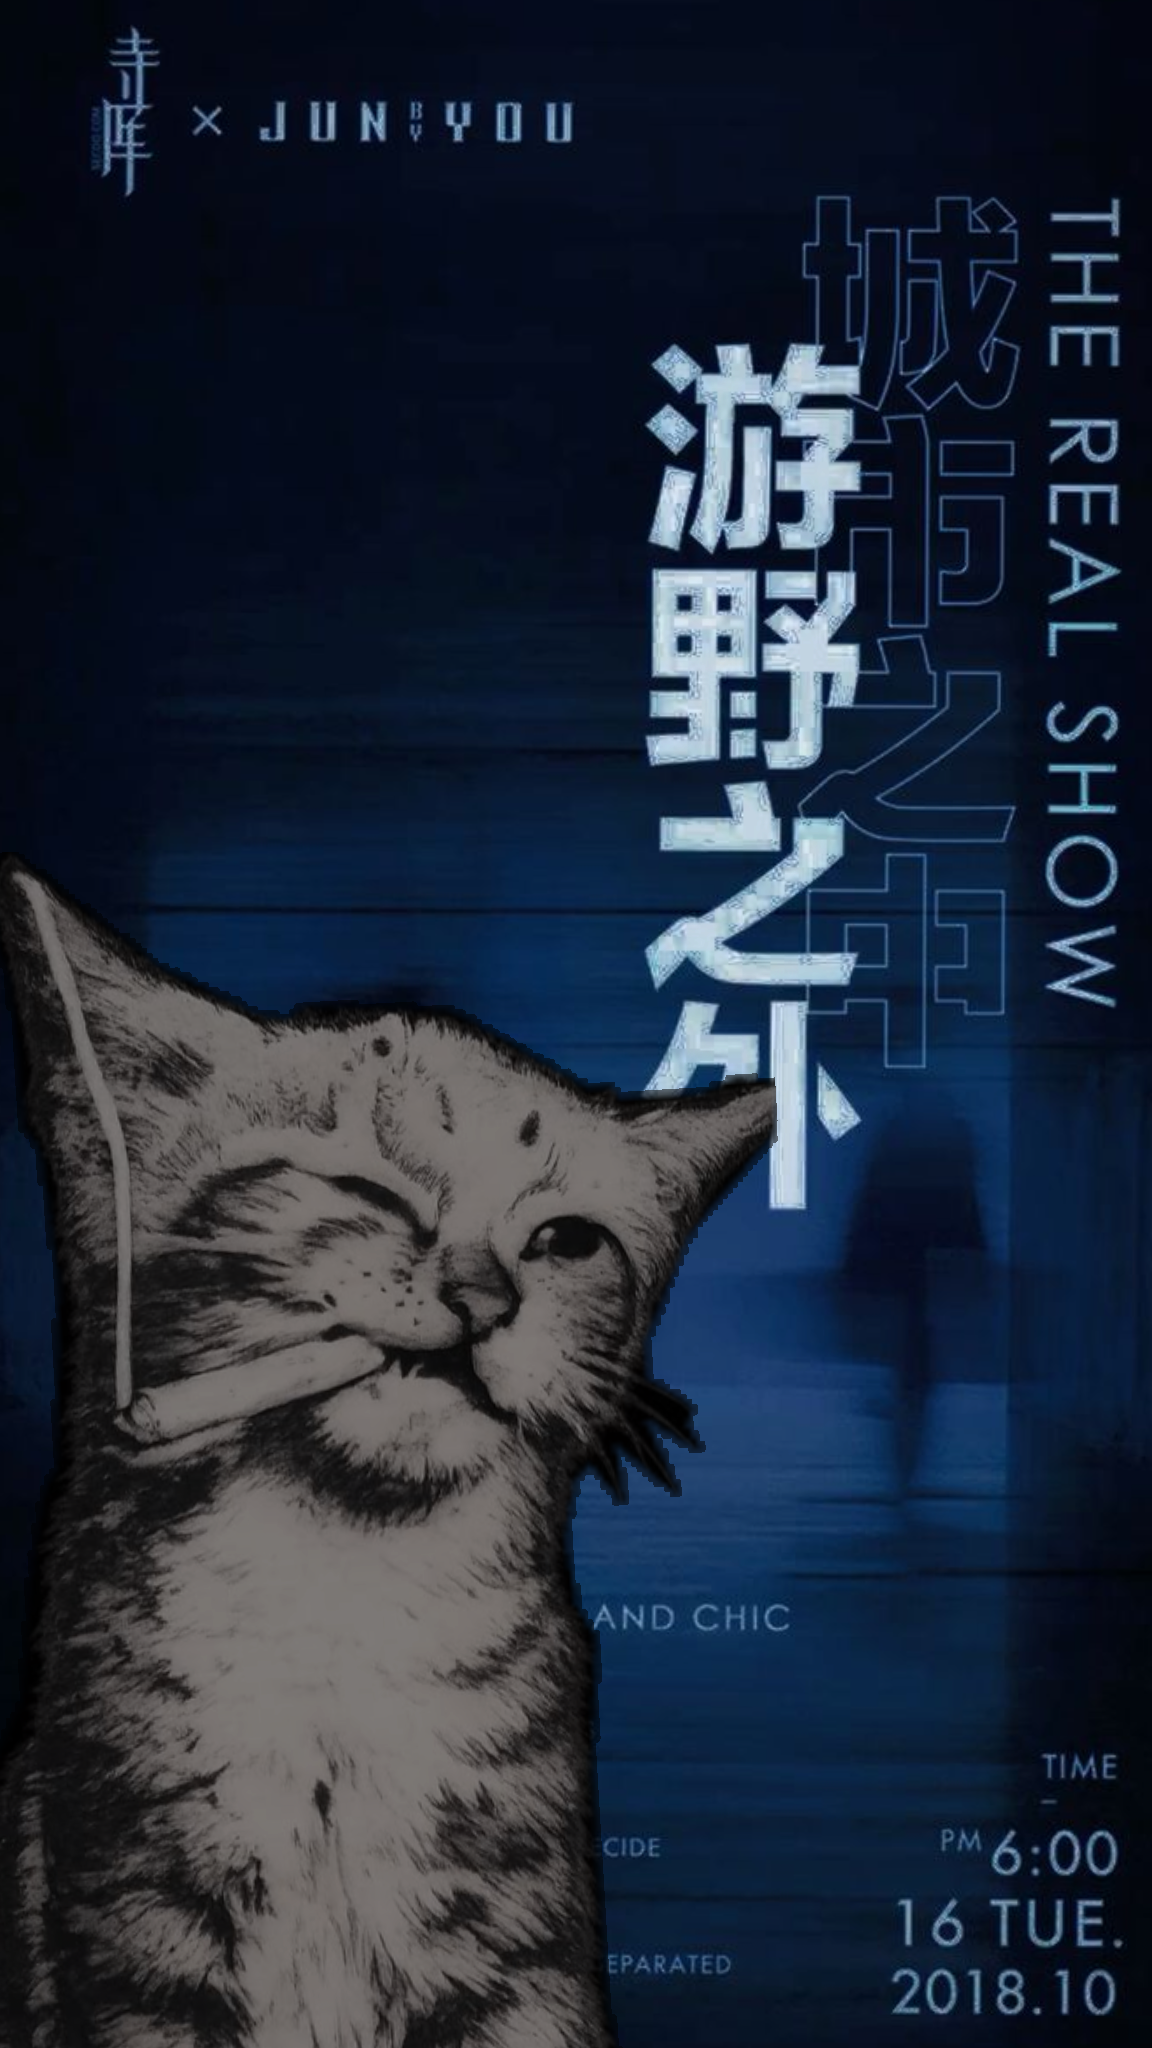
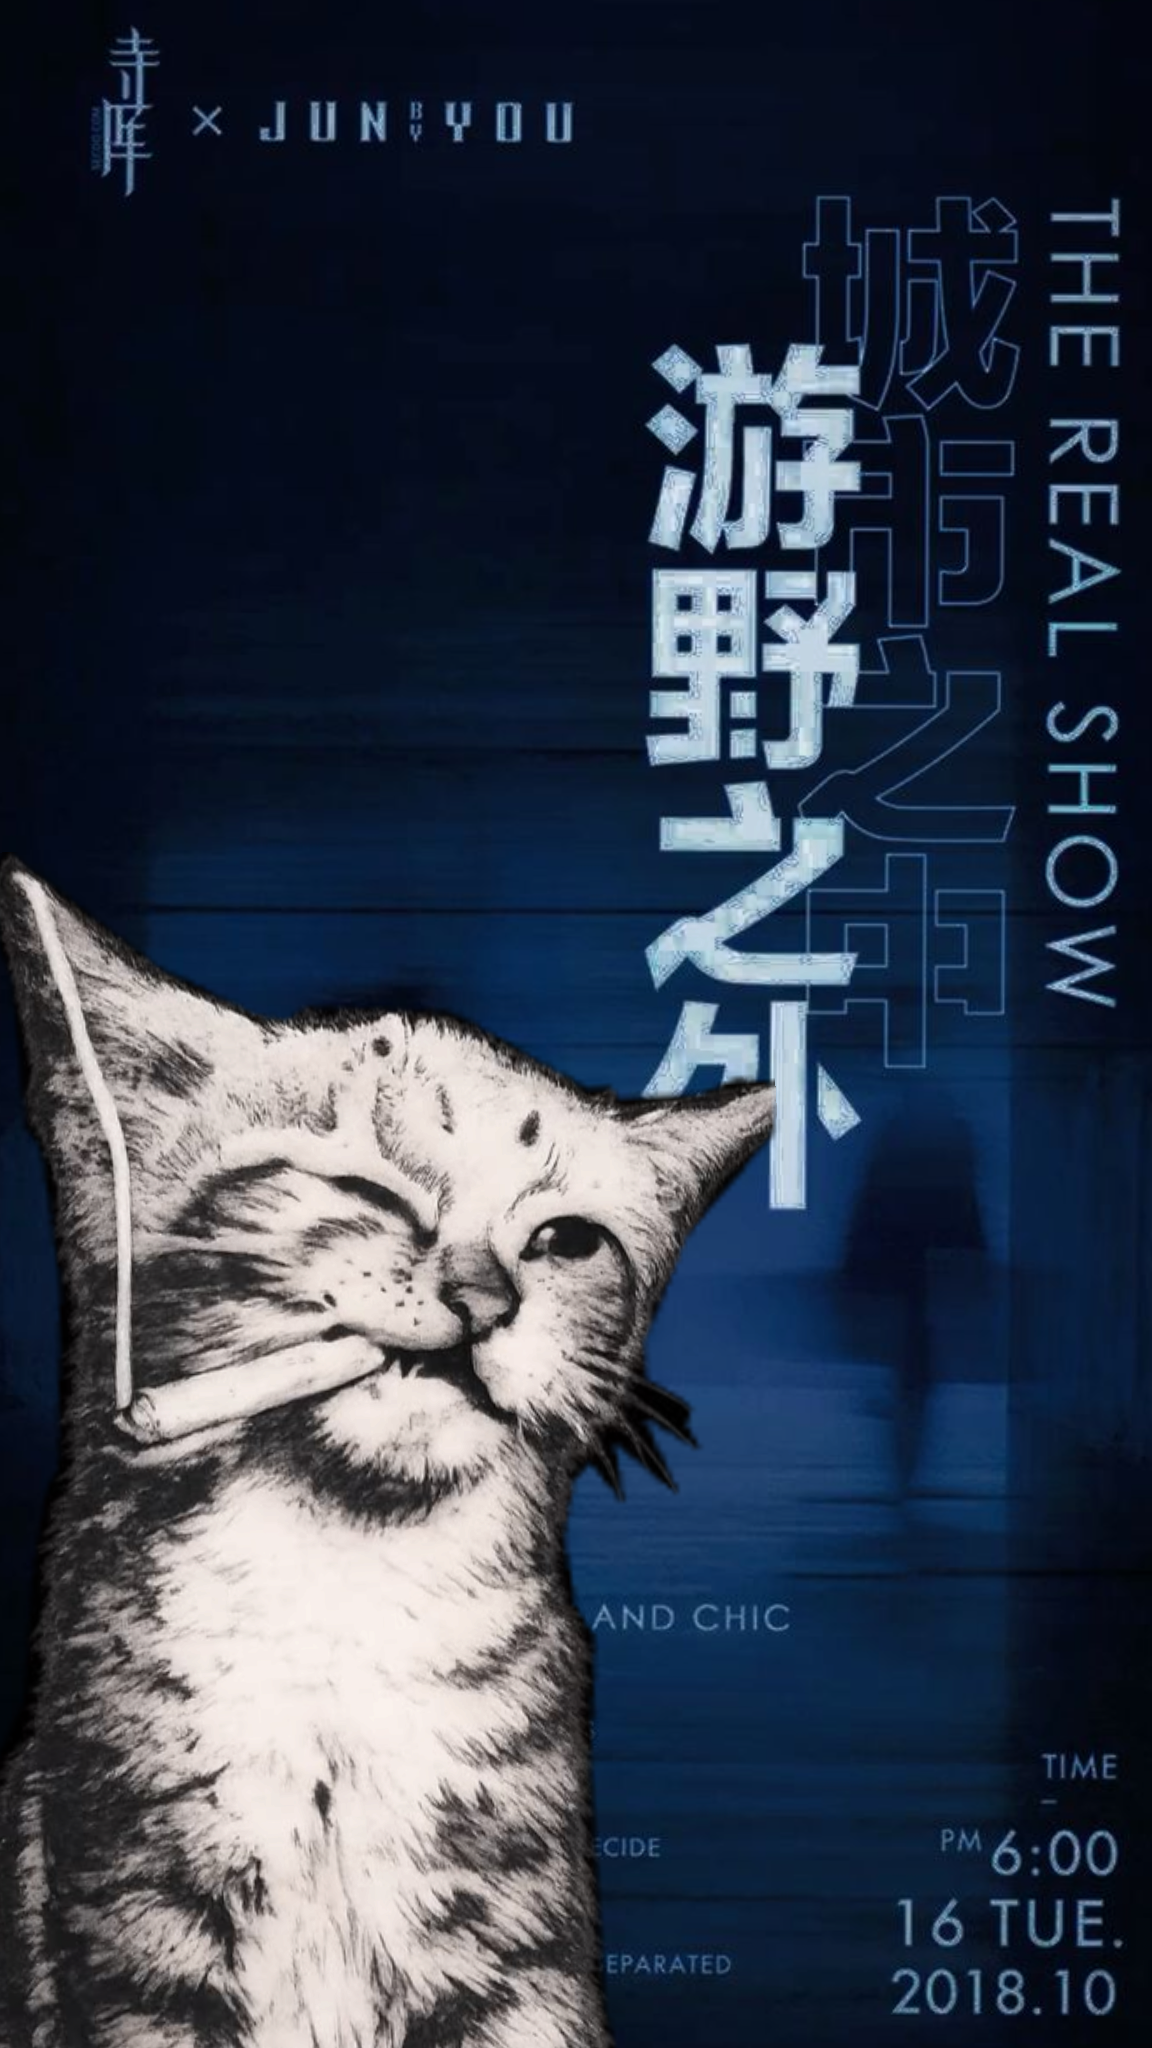
tarea14

Changed region(s): [[0.0, 0.4062, 0.6875, 1.0]]

diff --git a/tarea14/css/estilos.css b/tarea14/css/estilos.css
@@ -6,7 +6,7 @@ body {
   font-family: Verdana, Geneva, Tahoma, sans-serif;
   padding: 0;
   margin: 0;
-  background-image: linear-gradient(to bottom, black, rgb(44, 0, 0));
+  background-image: linear-gradient(to bottom, rgb(3, 25, 54), rgb(4, 62, 189));
   color: white;
 }
 
@@ -16,10 +16,11 @@ body {
   position: sticky;
   top: 0;
   z-index: 5;
+  background-color: rgba(76, 117, 207, 0.822);
 }
 
 .logo {
-   border: 0.2rem solid greenyellow;
+   border: 0.2rem solid rgb(25, 4, 209);
    border-radius: 45%;
    width: 20%;
    height: 27rem;
@@ -52,7 +53,7 @@ body {
 }
 
 #elementos-posicionados {
-  border: 0.2rem solid goldenrod;
+  border: 0.2rem solid rgb(9, 22, 201);
   padding: 1rem;
   height: 200rem;
   position: relative;
@@ -62,7 +63,7 @@ body {
 }
 
 .gatito_azul {
-  border: 0.2rem solid greenyellow;
+  border: 0.2rem solid rgb(8, 5, 196);
   width: 40rem;
     height: 50rem;
     margin: 0.5rem;
@@ -77,7 +78,7 @@ body {
 }
 
 .jk {
-  border: 0.2rem solid greenyellow;
+  border: 0.2rem solid rgb(6, 8, 134);
   width: 40rem;
   height: 50rem;
   margin: 0.5rem;
@@ -93,7 +94,7 @@ body {
 }
 
 .ojo{
-  border: 0.2rem solid greenyellow;
+  border: 0.2rem solid rgb(8, 2, 90);
   width: 40rem;
   height: 50rem;
   margin: 0.5rem;
@@ -107,17 +108,18 @@ body {
   height: 100%;
 }
 
-.abarzo {
-  border: 0.2rem solid greenyellow;
+.abrazo {
+  border: 0.2rem solid rgb(8, 1, 51);
   width: 40rem;
   height: 50rem;
   margin: 0.5rem;
   position: absolute;
   bottom: 0rem;
   right: 0rem;
+  z-index: 2;
 }
 
-.abarzo img {
+.abrazo img {
   width: 100%;
   height: 100%;
 }

diff --git a/tarea14/index.html b/tarea14/index.html
@@ -23,7 +23,7 @@
   </header>
   <main id="elementos-posicionados">
     <section class="gatito_azul">
-      <img src="imagenes/gatito_azul.jpg" alt="">
+      <img src="imagenes/gatito_azul.png" alt="">
     </section>
     <section class="jk">
       <img src="imagenes/jk.jpg" alt="">
